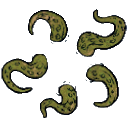
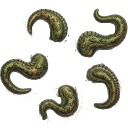
lake decor

diff --git a/game/generator/SaveGameGenerator.js b/game/generator/SaveGameGenerator.js
@@ -106,14 +106,18 @@ export default class SaveGameGenerator {
 						t.precipitationLevel.get(),
 						t.heightLevel.get()
 					);
-					if (biotope) {
-						t.biotopeId.set(biotope.id.get());
-						t.biotope.set(biotope);
-						if (biotope.decorations.count() > 0 && !t.isStream() && NumberHelper.randomPercent(50)) {
-							const decor = biotope.decorations.random();
-							t.decorId.set(decor.id.get());
-							t.isBlocked.set(decor.isBlocking.get());
-						}
+					t.biotopeId.set(biotope.id.get());
+					t.biotope.set(biotope);
+				}
+				if (t.biotope.isEmpty()) {
+					t.biotope.set(this.resources.biotopes.get(t.biotopeId.get()));
+				}
+				const biotope = t.biotope.get();
+				if (NumberHelper.randomPercent(50)) {
+					if (biotope.decorations.count() > 0 && !t.isStream()) {
+						const decor = biotope.decorations.random();
+						t.decorId.set(decor.id.get());
+						t.isBlocked.set(decor.isBlocking.get());
 					}
 				}
 			}

diff --git a/game/generator/RiverGenerator.js b/game/generator/RiverGenerator.js
@@ -51,7 +51,7 @@ export default class RiverGenerator {
 		tile.addRiver(targetPosition, strength);
 		if (tile.isRiver()) {
 			tile.biotopeId.set(this.riverBiotope.id.get());
-			tile.biotope.set(this.riverBiotope);
+			//tile.biotope.set(this.riverBiotope);
 		}
 	}
 
@@ -69,7 +69,7 @@ export default class RiverGenerator {
 
 		tile.rivers.lake.set(true);
 		tile.biotopeId.set(this.lakeBiotope.id.get());
-		tile.biotope.set(this.lakeBiotope);
+		//tile.biotope.set(this.lakeBiotope);
 	}
 
 	createLake(tile, strength) {

diff --git a/game/savegame/tile/river/TileRiversModel.js b/game/savegame/tile/river/TileRiversModel.js
@@ -38,8 +38,8 @@ export default class TileRiversModel extends ModelNodeCollection {
 	}
 
 	isStream() {
-		if (this.isLake()) return false;
-		return (this.strength.get() > 0) && (this.strength.get() < MIN_RIVER_LEVEL);
+		if (this.isLake() || this.isRiver()) return false;
+		return this.strength.get() > 0;
 	}
 
 

diff --git a/game/resources/biotope/biotopes/LakeBiotope.js b/game/resources/biotope/biotopes/LakeBiotope.js
@@ -8,7 +8,7 @@ export class LakeBiotope extends BiotopeResource {
 		this.name.set('Lake');
 		this.texture.set('img/texture/water.jpg');
 
-		this.addDecoration('Waves', 'img/decor/waves.png');
+		this.addDecoration('Wave', 'img/decor/wave-1.png');
 	}
 
 }
